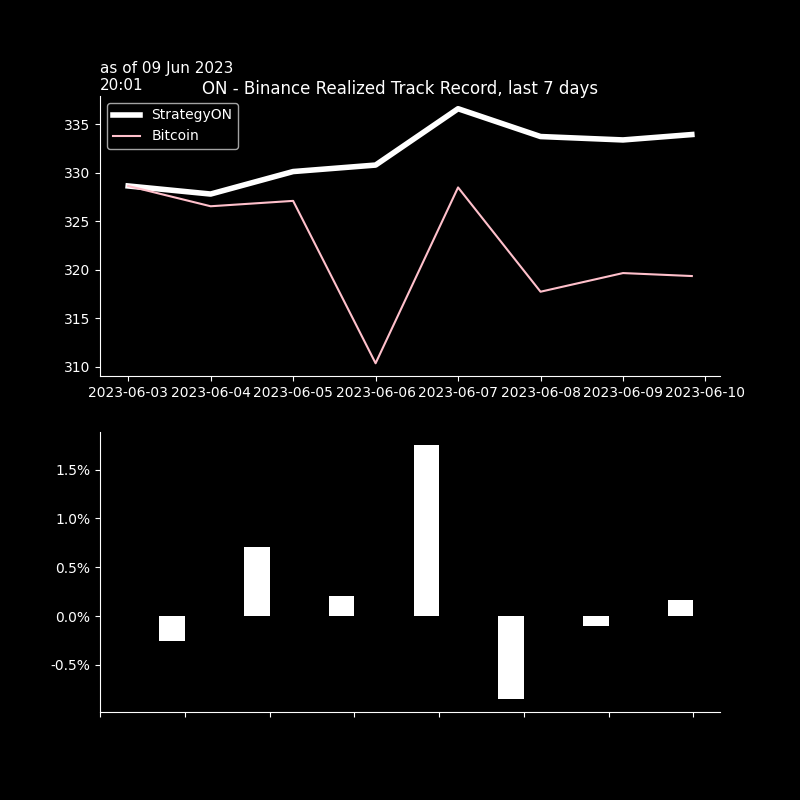
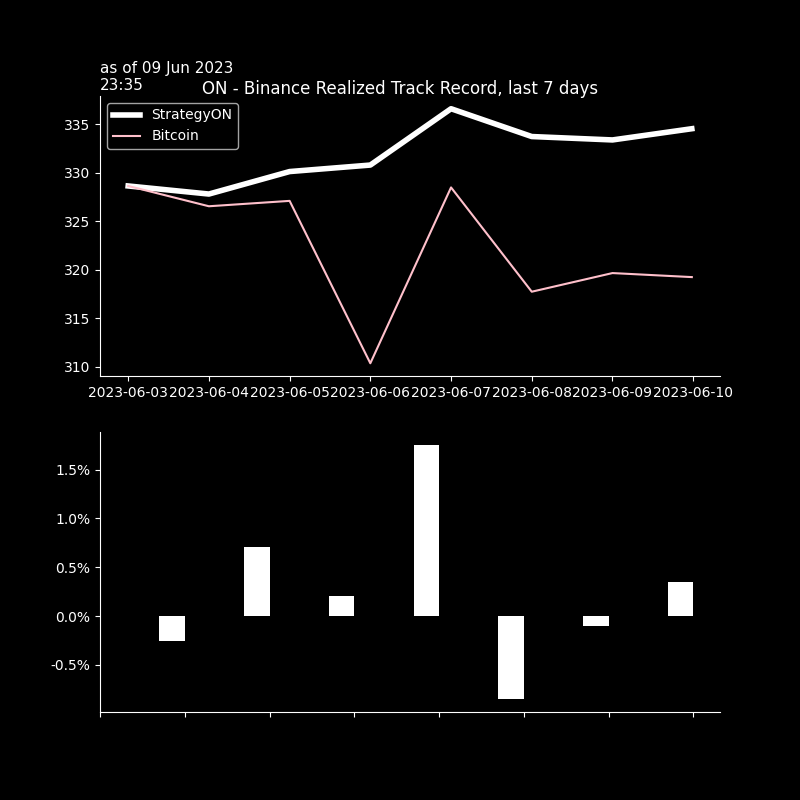
seb_commit

diff --git a/crypto/graphs/bt_trades_book.htmltrade_trades_book.html b/crypto/graphs/bt_trades_book.htmltrade_trades_book.html
@@ -37,55 +37,55 @@
   </thead>
   <tbody>
     <tr>
-      <th>BTCUSDT</th>
-      <td>26452.400</td>
-      <td>2023-06-09 18:32:27</td>
-      <td>0.006</td>
-      <td>$158.7</td>
-      <td>$0.03</td>
-      <td>1.6</td>
-      <td>0.0</td>
-      <td>26462.05000</td>
-      <td>2023-06-09 19:31</td>
-      <td>0.1</td>
-      <td>4.0</td>
-      <td>26449.4</td>
-      <td>-0.0</td>
-      <td>-1.0</td>
-    </tr>
-    <tr>
       <th>XRPUSDT</th>
-      <td>0.532</td>
-      <td>2023-06-09 18:32:29</td>
-      <td>313.100</td>
-      <td>$166.6</td>
+      <td>0.5373</td>
+      <td>2023-06-09 22:32:02</td>
+      <td>-313.100</td>
+      <td>$-168.2</td>
       <td>$0.03</td>
       <td>1.6</td>
-      <td>0.0</td>
-      <td>0.53255</td>
-      <td>2023-06-09 19:31</td>
-      <td>0.2</td>
-      <td>10.0</td>
-      <td>.532</td>
-      <td>-0.0</td>
-      <td>-0.0</td>
+      <td>1.7</td>
+      <td>0.53685</td>
+      <td>2023-06-09 23:31</td>
+      <td>0.1</td>
+      <td>8.0</td>
+      <td>.5369</td>
+      <td>0.1</td>
+      <td>8.0</td>
     </tr>
     <tr>
       <th>ETHUSDT</th>
-      <td>1840.240</td>
-      <td>2023-06-09 18:32:30</td>
-      <td>0.091</td>
-      <td>$167.5</td>
+      <td>1835.9300</td>
+      <td>2023-06-09 22:33:43</td>
+      <td>-0.091</td>
+      <td>$-167.1</td>
+      <td>$0.03</td>
+      <td>1.6</td>
+      <td>-0.4</td>
+      <td>1834.85500</td>
+      <td>2023-06-09 23:31</td>
+      <td>0.1</td>
+      <td>6.0</td>
+      <td>1835.22</td>
+      <td>0.1</td>
+      <td>4.0</td>
+    </tr>
+    <tr>
+      <th>BTCUSDT</th>
+      <td>26453.4000</td>
+      <td>2023-06-09 22:35:11</td>
+      <td>-0.006</td>
+      <td>$-158.7</td>
       <td>$0.03</td>
       <td>1.6</td>
       <td>0.0</td>
-      <td>1840.72500</td>
-      <td>2023-06-09 19:31</td>
-      <td>0.0</td>
-      <td>2.0</td>
-      <td>1839.97</td>
+      <td>26454.15000</td>
+      <td>2023-06-09 23:31</td>
       <td>-0.0</td>
-      <td>-1.0</td>
+      <td>-0.0</td>
+      <td>26460.</td>
+      <td>-0.0</td>
+      <td>-3.0</td>
     </tr>
   </tbody>
 </table>

diff --git a/crypto/graphs/bt_trades_pnlD_recap.htmltrade_trades_pnlD_recap.html b/crypto/graphs/bt_trades_pnlD_recap.htmltrade_trades_pnlD_recap.html
@@ -1,7 +1,7 @@
 <table border="1" class="dataframe">
   <thead>
     <tr style="text-align: right;">
-      <th>09 Jun 19:32</th>
+      <th>09 Jun 23:35</th>
       <th>realizedPnl</th>
       <th>PnLvsArrival</th>
       <th>PnLvsLast</th>
@@ -10,21 +10,21 @@
   <tbody>
     <tr>
       <th>in$</th>
-      <td>0.0</td>
-      <td>0.3</td>
-      <td>-0.0</td>
+      <td>1.3</td>
+      <td>0.2</td>
+      <td>0.1</td>
     </tr>
     <tr>
-      <th>in bp 492 traded</th>
-      <td>0 bp</td>
+      <th>in bp 494 traded</th>
+      <td>26 bp</td>
       <td>5 bp</td>
-      <td>-1 bp</td>
+      <td>3 bp</td>
     </tr>
     <tr>
-      <th>in bp 333 AUMs</th>
-      <td>0 bp</td>
-      <td>8 bp</td>
-      <td>-1 bp</td>
+      <th>in bp 334 AUMs</th>
+      <td>38 bp</td>
+      <td>7 bp</td>
+      <td>4 bp</td>
     </tr>
   </tbody>
 </table>

diff --git a/crypto/graphs/bt_trades_recap.htmltrade_trades_recap.html b/crypto/graphs/bt_trades_recap.htmltrade_trades_recap.html
@@ -9,28 +9,28 @@
   <tbody>
     <tr>
       <th>as of</th>
-      <td>09Jun 18:32&gt;&gt;18:32</td>
+      <td>09Jun 22:32&gt;&gt;22:35</td>
       <td>#trades: 3</td>
     </tr>
     <tr>
       <th>trade net</th>
-      <td>+493.0</td>
-      <td>+147.9%</td>
+      <td>-494.0</td>
+      <td>-147.8%</td>
     </tr>
     <tr>
       <th>trade gross</th>
-      <td>+493.0</td>
-      <td>+147.9%</td>
+      <td>+494.0</td>
+      <td>+147.8%</td>
     </tr>
     <tr>
       <th>BUY</th>
-      <td>+493.0</td>
-      <td>+147.9%</td>
+      <td>+0.0</td>
+      <td>+0.0%</td>
     </tr>
     <tr>
       <th>SELL</th>
-      <td>+0.0</td>
-      <td>+0.0%</td>
+      <td>-494.0</td>
+      <td>-147.8%</td>
     </tr>
     <tr>
       <th>fees</th>
